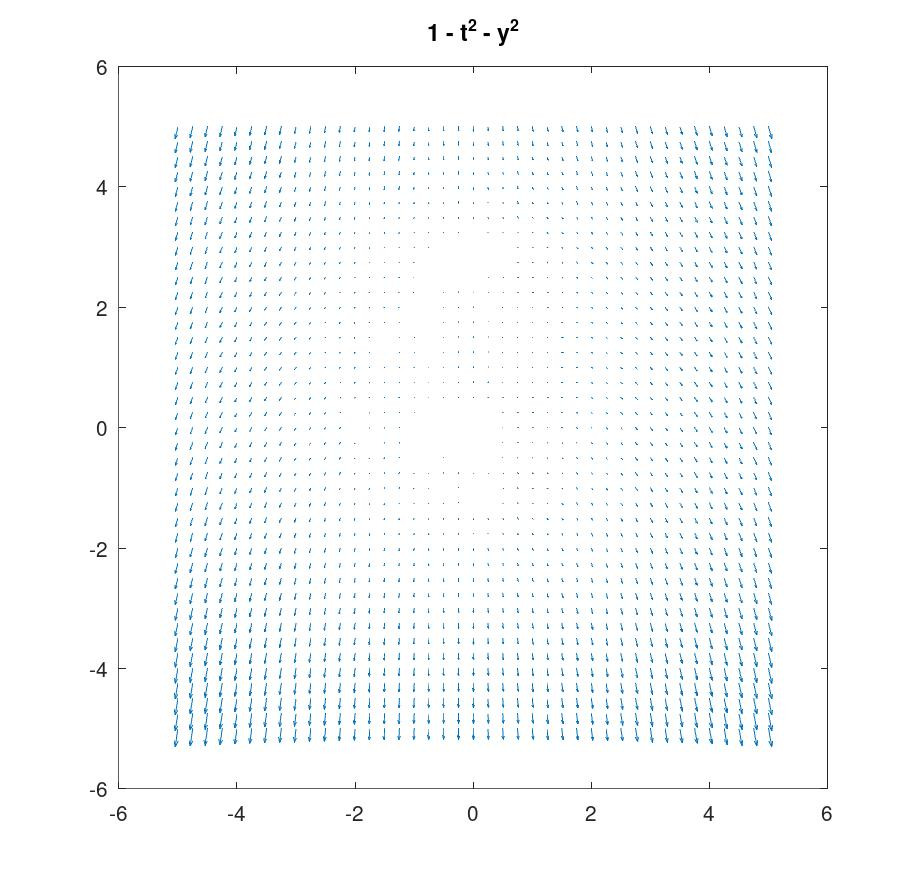
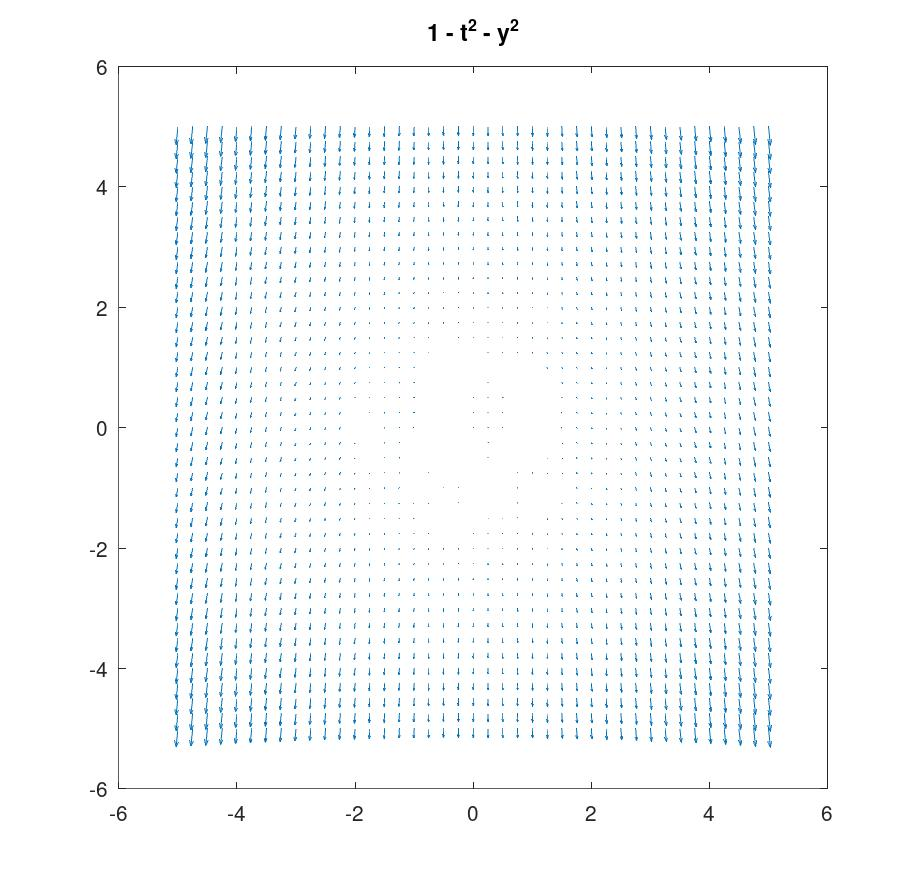
fixed scale.

diff --git a/vector_field.py b/vector_field.py
@@ -8,10 +8,12 @@ expr_2 = 't*y'
 expr_3 = '1- t**2 - y**2'
 expr_4 = '1 + y**2'
 expr_5 = 't**2+ y**2'
+expr_6 = 't-y'
 
 
 def f_1(t,y):
     return eval(expr_0)
+
 def f_2(t,y):
     return eval(expr_1)
 
@@ -27,21 +29,25 @@ def f_5(t,y):
 def f_6(t,y):
     return eval(expr_5)
 
-funcs = [f_1,f_2,f_3,f_4,f_5,f_6]
-exprs = [expr_0,expr_1,expr_2,expr_3,expr_4,expr_5]
+def f_7(t,y):
+    return eval(expr_6)
+
+funcs = [f_1,f_2,f_3,f_4,f_5,f_6,f_7]
+exprs = [expr_0,expr_1,expr_2,expr_3,expr_4,expr_5,expr_6]
 
 
 test = np.linspace(-10,10,25)
 I, J = np.meshgrid(test,test)
-step = 0.1
+#step = 0.1
 #fig, ax = plt.subplots(3,2)
 
 for index,(func,expr) in enumerate(zip(funcs,exprs)):
     plt.figure()
-    U = I + step
-    V = step * func(I,J) + J
+    U = np.ones_like(I)
+    V = func(I,J)
     #q = ax[index].quiver(i,j,i+0.5,0.5*func(i,j)+j)
-    q = plt.quiver(I,J,U,V,scale=25)
+    length = np.sqrt(U**2 + V**2)
+    q = plt.quiver(I,J,U / length,V / length,scale=25,angles='xy')
     plt.quiverkey(q, X=0.3,Y=1.1,U=2,label='Length of 2',labelpos='E')
     #ax[index].quiverkey(q, X=0.3,Y=0.3,U=1,label='Test',labelpos='E')
     plt.title("Equation "+expr)

diff --git a/matlab/script.m b/matlab/script.m
@@ -8,7 +8,7 @@ f = @(t,y) [t-y];
 tz = f(tt,yy);
 
 
-quiver (tt,yy,tt+0.5,0.5*tz+yy);
+quiver (tt,yy,tt,tz);
 title("t - y");
 
 print -djpg figure.jpg;
@@ -16,7 +16,7 @@ print -djpg figure.jpg;
 f_2 = @(t,y) [1 - t.^2 - y.^2];
 
 tz = f_2 (tt, yy);
-quiver (tt,yy,tt+0.5,0.5*tz+yy);
+quiver (tt,yy,tt,tz);
 title("1 - t^2 - y^2")
 print -djpg figure2.jpg;
 
@@ -24,14 +24,14 @@ f_3 = @(t,y) [sin(t)-cos(y)];
 
 tz = f_3 (tt, yy);
 
-quiver(tt,yy,tt+0.5,0.5*tz+yy);
+quiver(tt,yy,tt,tz);
 title("sin(t)-cos(y)");
 print -djpg figure3.jpg;
 
 f_4 = @(t,y) [t.^2 + y.^2];
 
 tz = f_4 (tt,yy);
-h = quiver(tt,yy,tt+0.5,0.5*tz+yy);
+h = quiver(tt,yy,tt,tz);
 set(h, "maxheadsize", 0.25);
 title(" x^2 + y^2")
 print -djpg figure4.jpg
